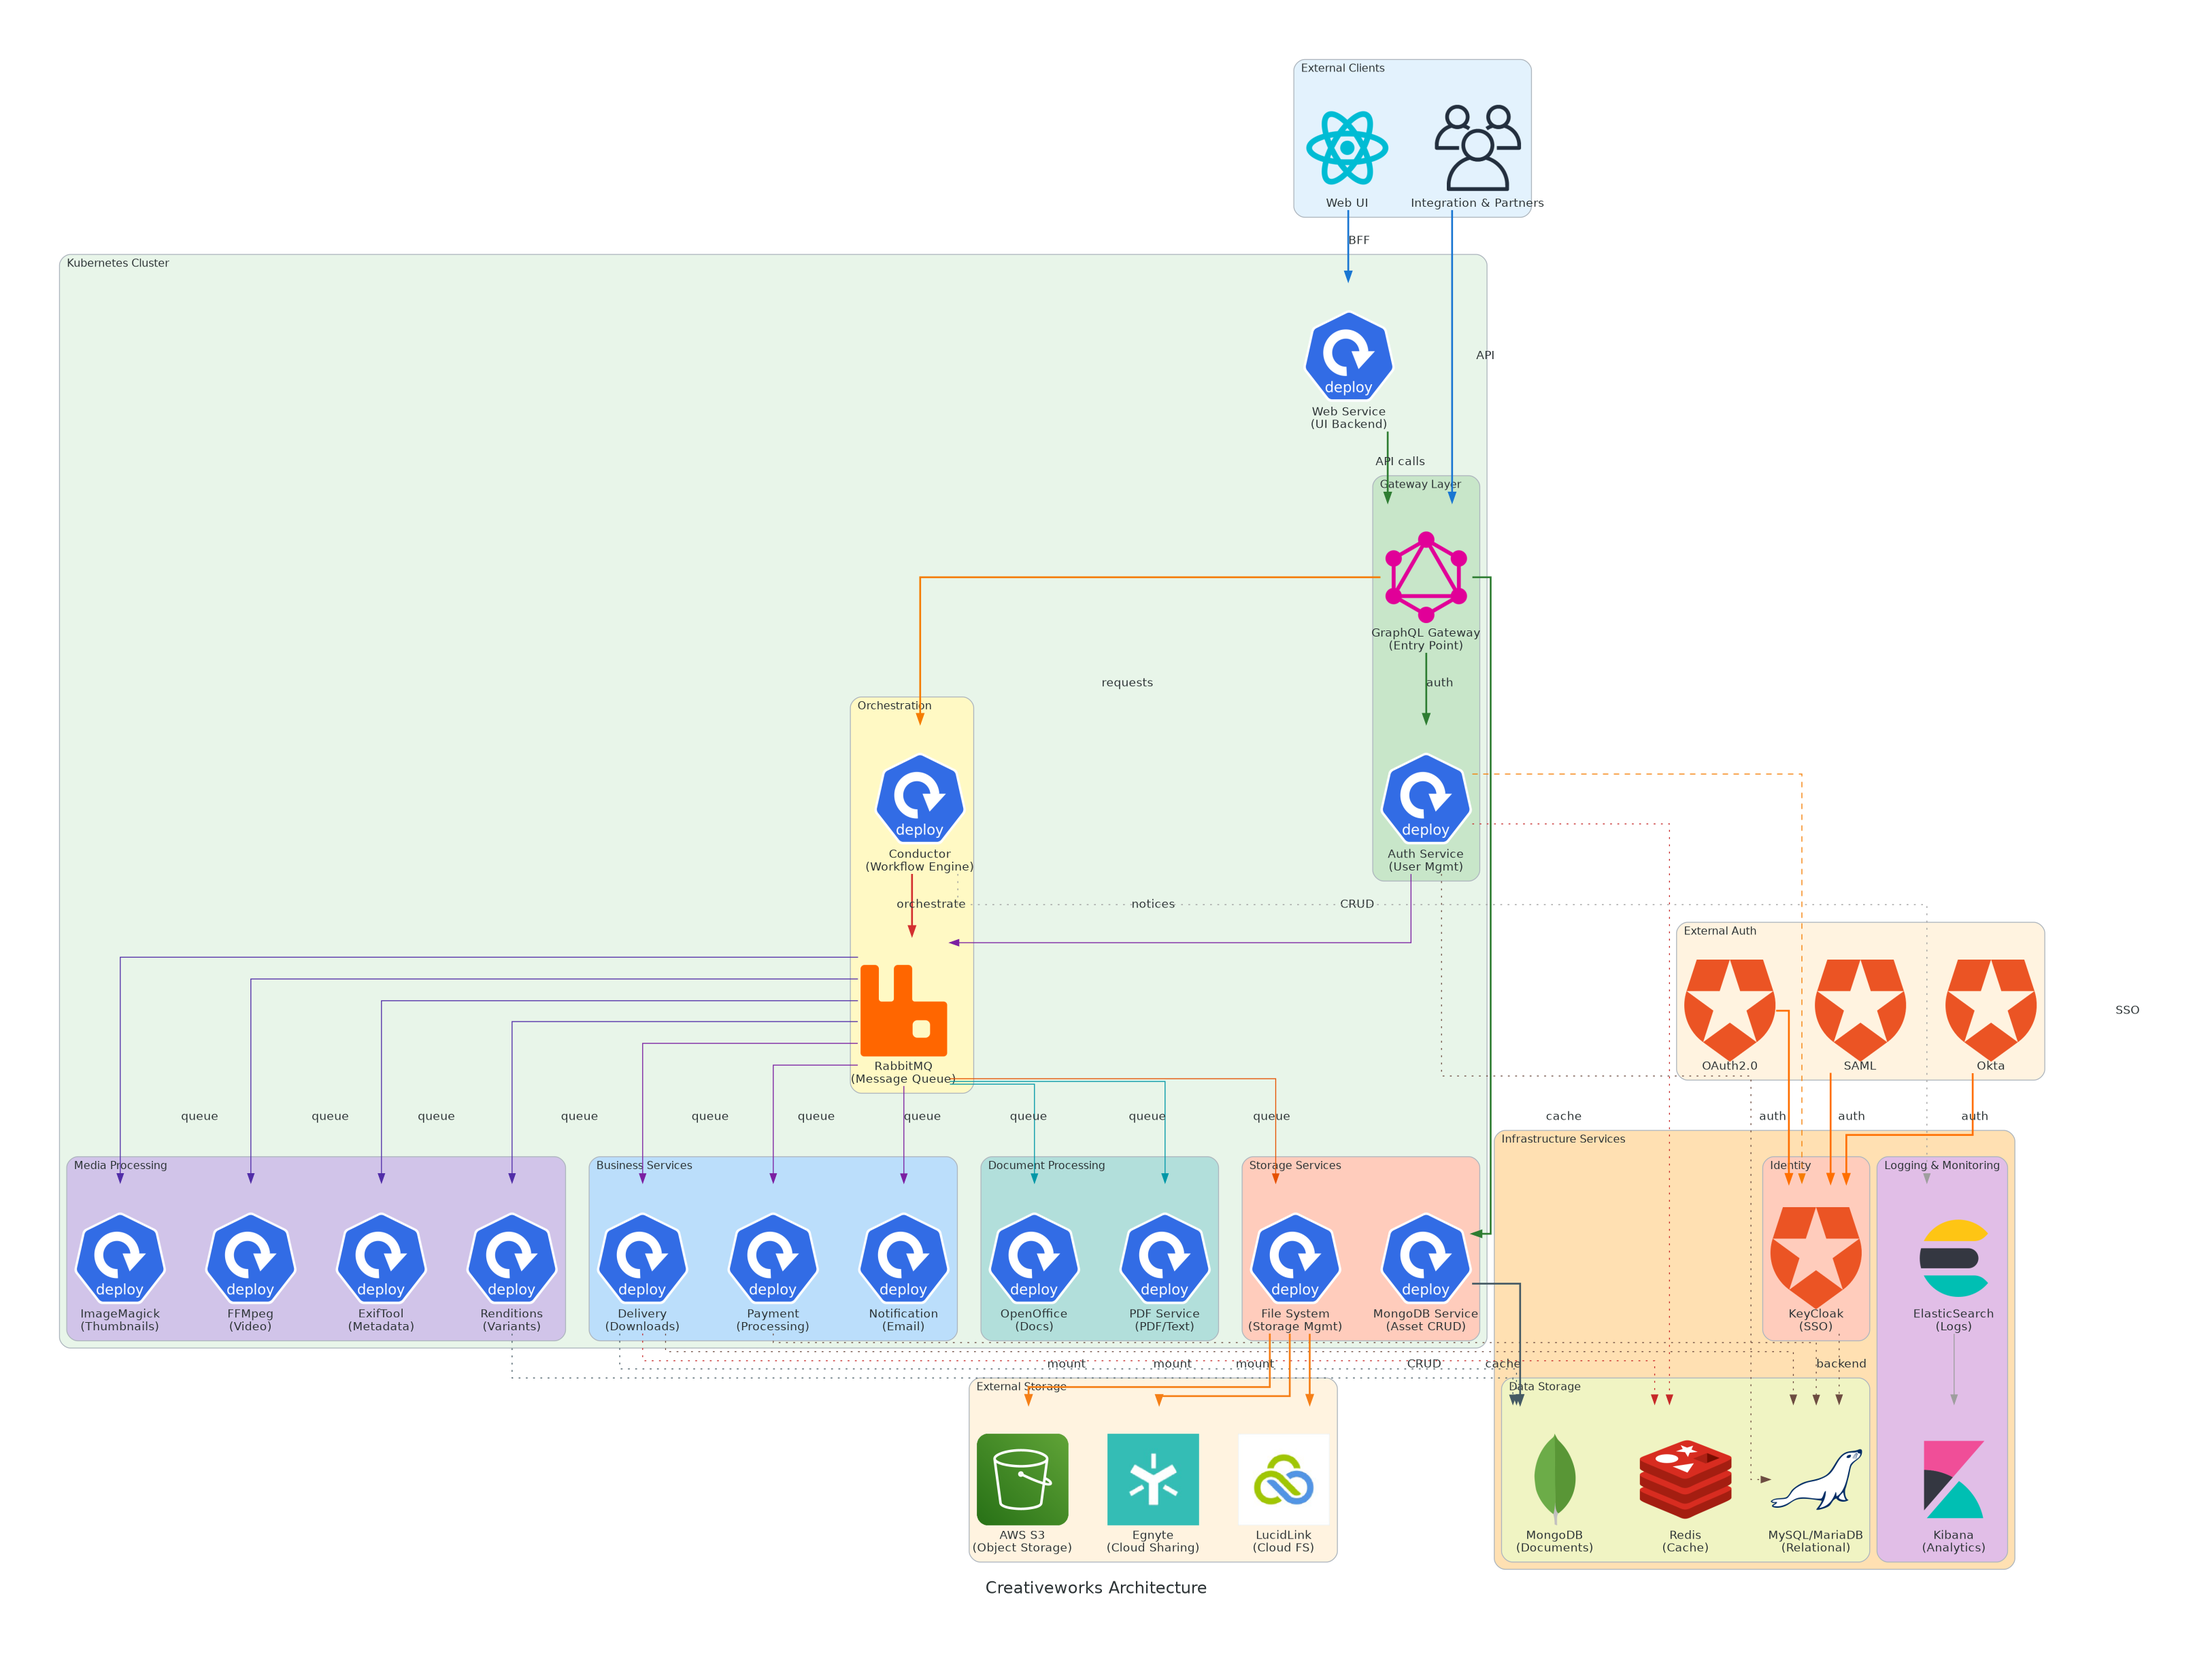
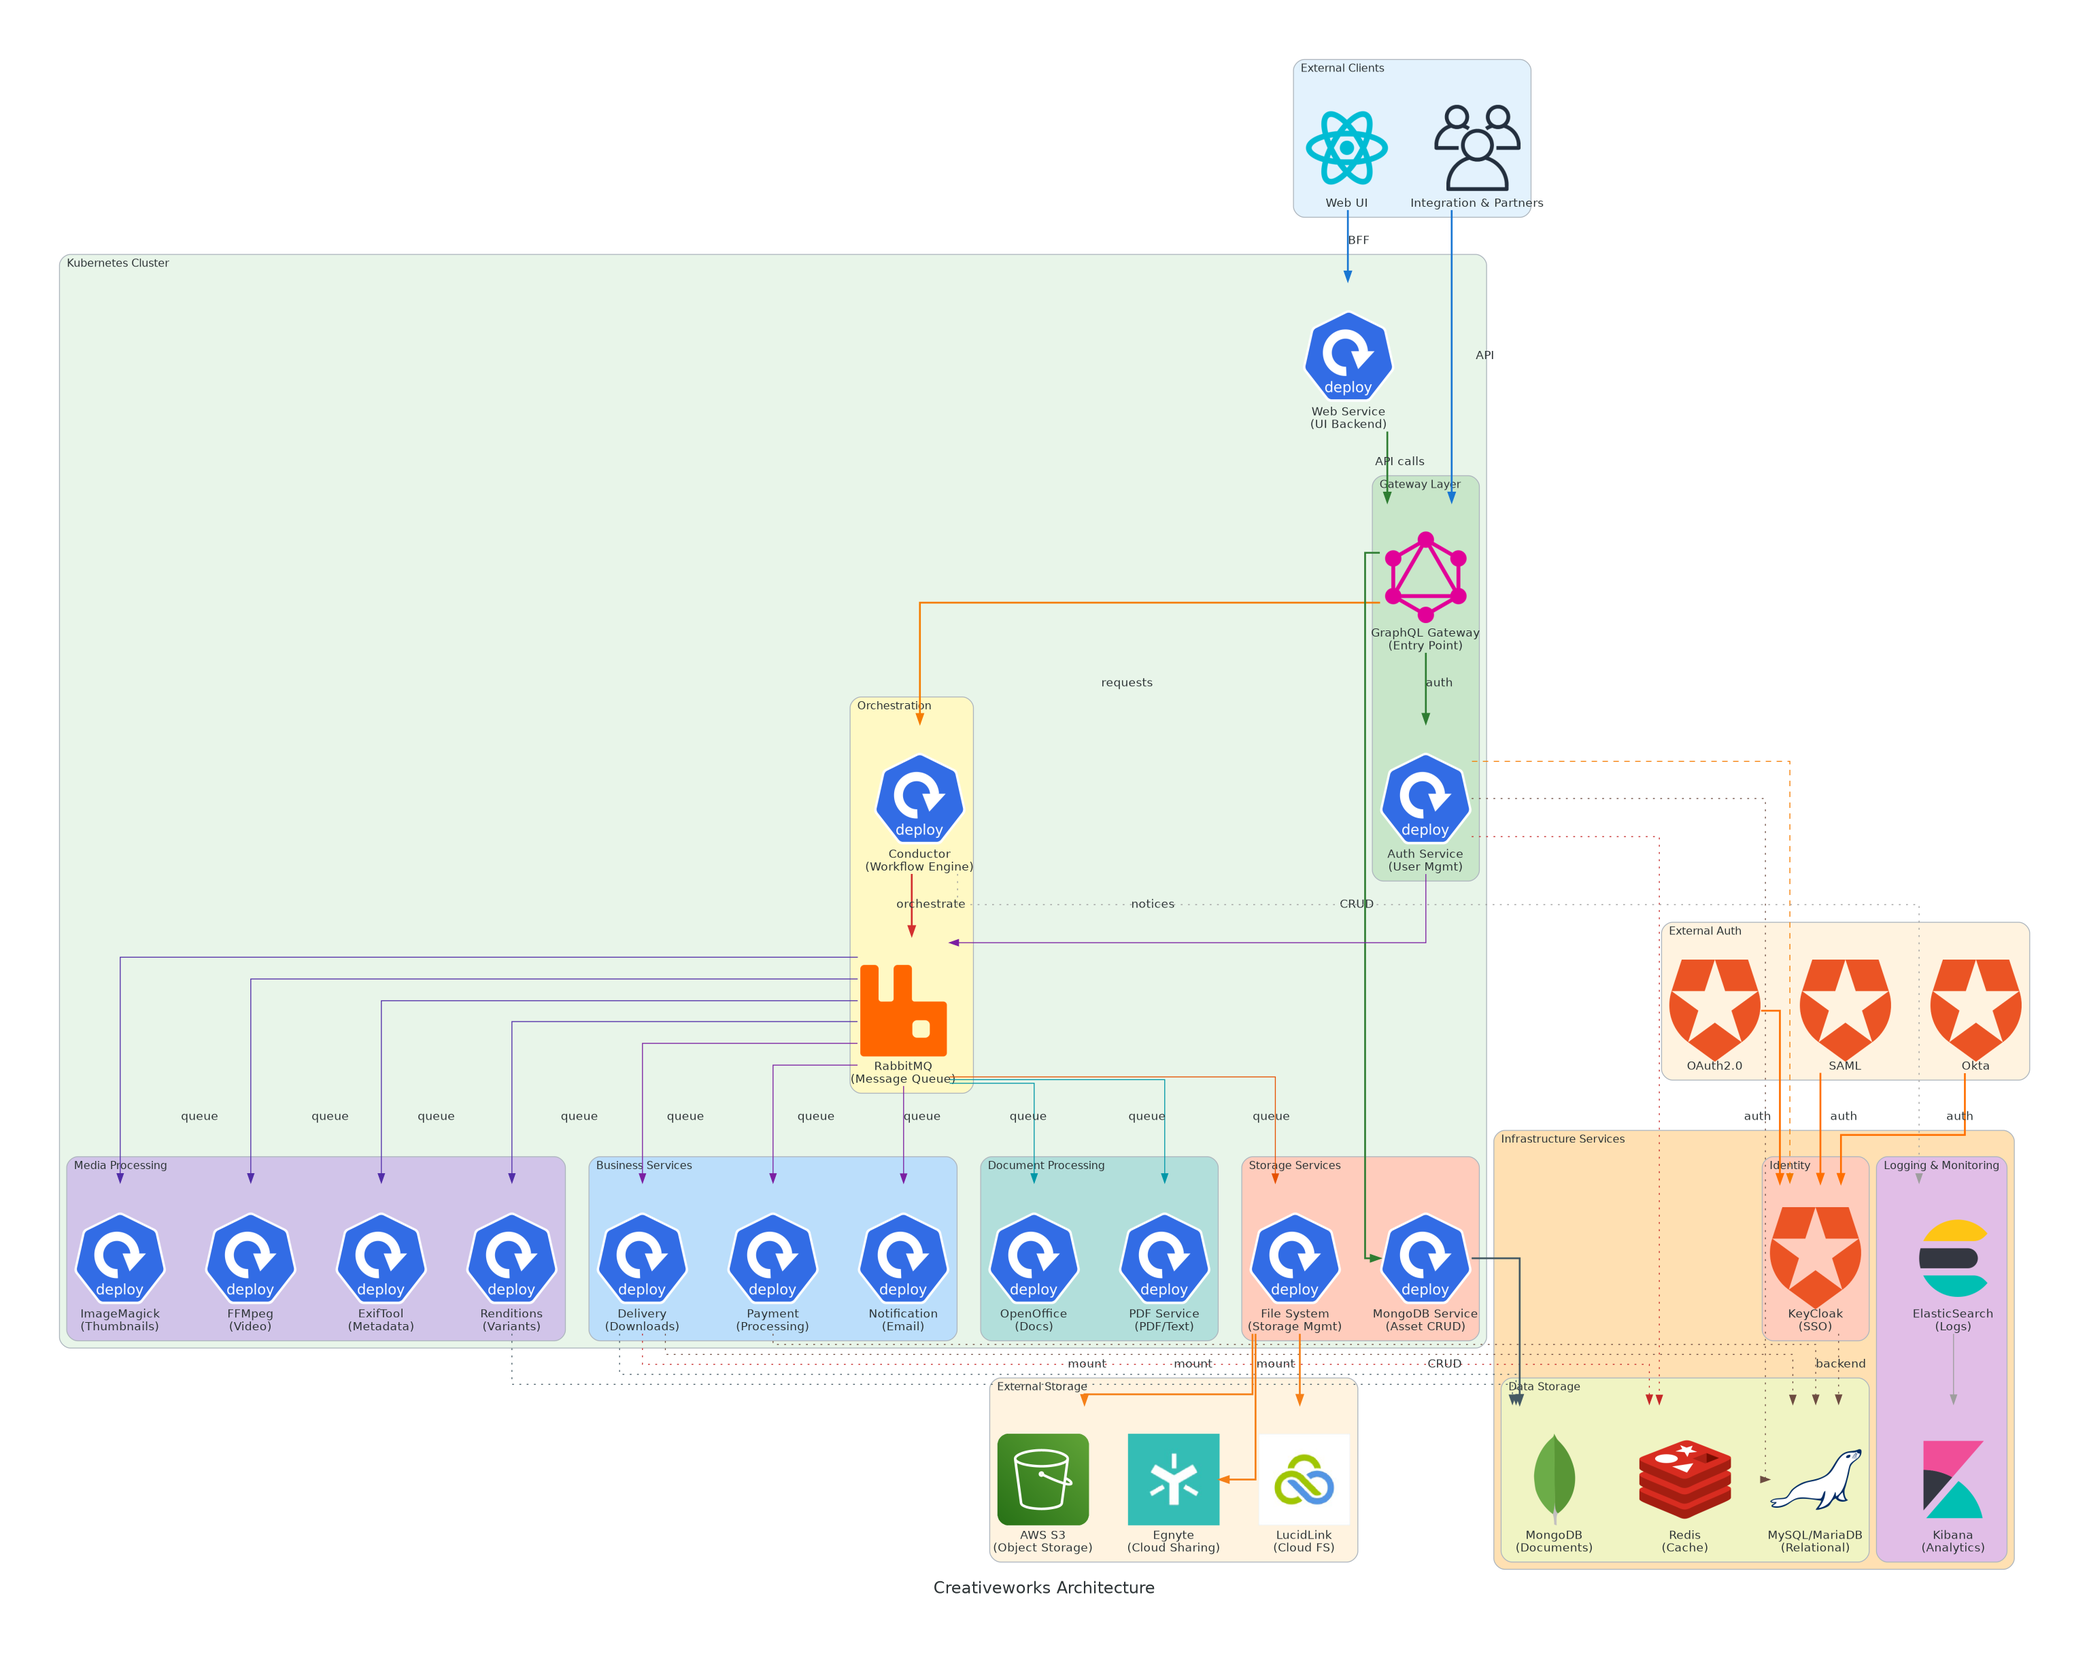
Remove stray edge labels from architecture diagram
Removed unnecessary edge labels that were causing visual clutter:
- Removed "SSO" label from Auth-Service → KeyCloak connection
  (redundant as KeyCloak is already labeled as "SSO")
- Removed "cache" label from Auth-Service → Redis connections
  (label was appearing as stray text near Infrastructure Services)

The diagram now has a cleaner appearance while maintaining all
the important connection information through color coding and
line styles (bold, dashed, dotted).

Changed region(s): [[0.0312, 0.4062, 1.0, 0.9688], [0.4375, 0.1875, 0.7188, 0.5625], [0.5625, 0.0312, 0.75, 0.1562]]

diff --git a/creativeworks_diagram.py b/creativeworks_diagram.py
@@ -126,7 +126,7 @@ with Diagram(
     web_service >> Edge(color="#2E7D32", style="bold", label="API calls") >> graphql_gateway
 
     # Auth Service to KeyCloak
-    auth_service >> Edge(color="#F57C00", style="dashed", label="SSO") >> keycloak
+    auth_service >> Edge(color="#F57C00", style="dashed") >> keycloak
 
     # Auth Service sends notifications via RabbitMQ
     auth_service >> Edge(color="#7B1FA2", label="notices") >> rabbitmq
@@ -169,8 +169,8 @@ with Diagram(
     delivery >> Edge(color="#455A64", style="dotted") >> mongodb
 
     # Services to Redis (Cache)
-    auth_service >> Edge(color="#C62828", style="dotted", label="cache") >> redis
-    delivery >> Edge(color="#C62828", style="dotted", label="cache") >> redis
+    auth_service >> Edge(color="#C62828", style="dotted") >> redis
+    delivery >> Edge(color="#C62828", style="dotted") >> redis
 
     # KeyCloak uses MySQL as backend
     keycloak >> Edge(color="#6D4C41", style="dotted", label="backend") >> mysql
